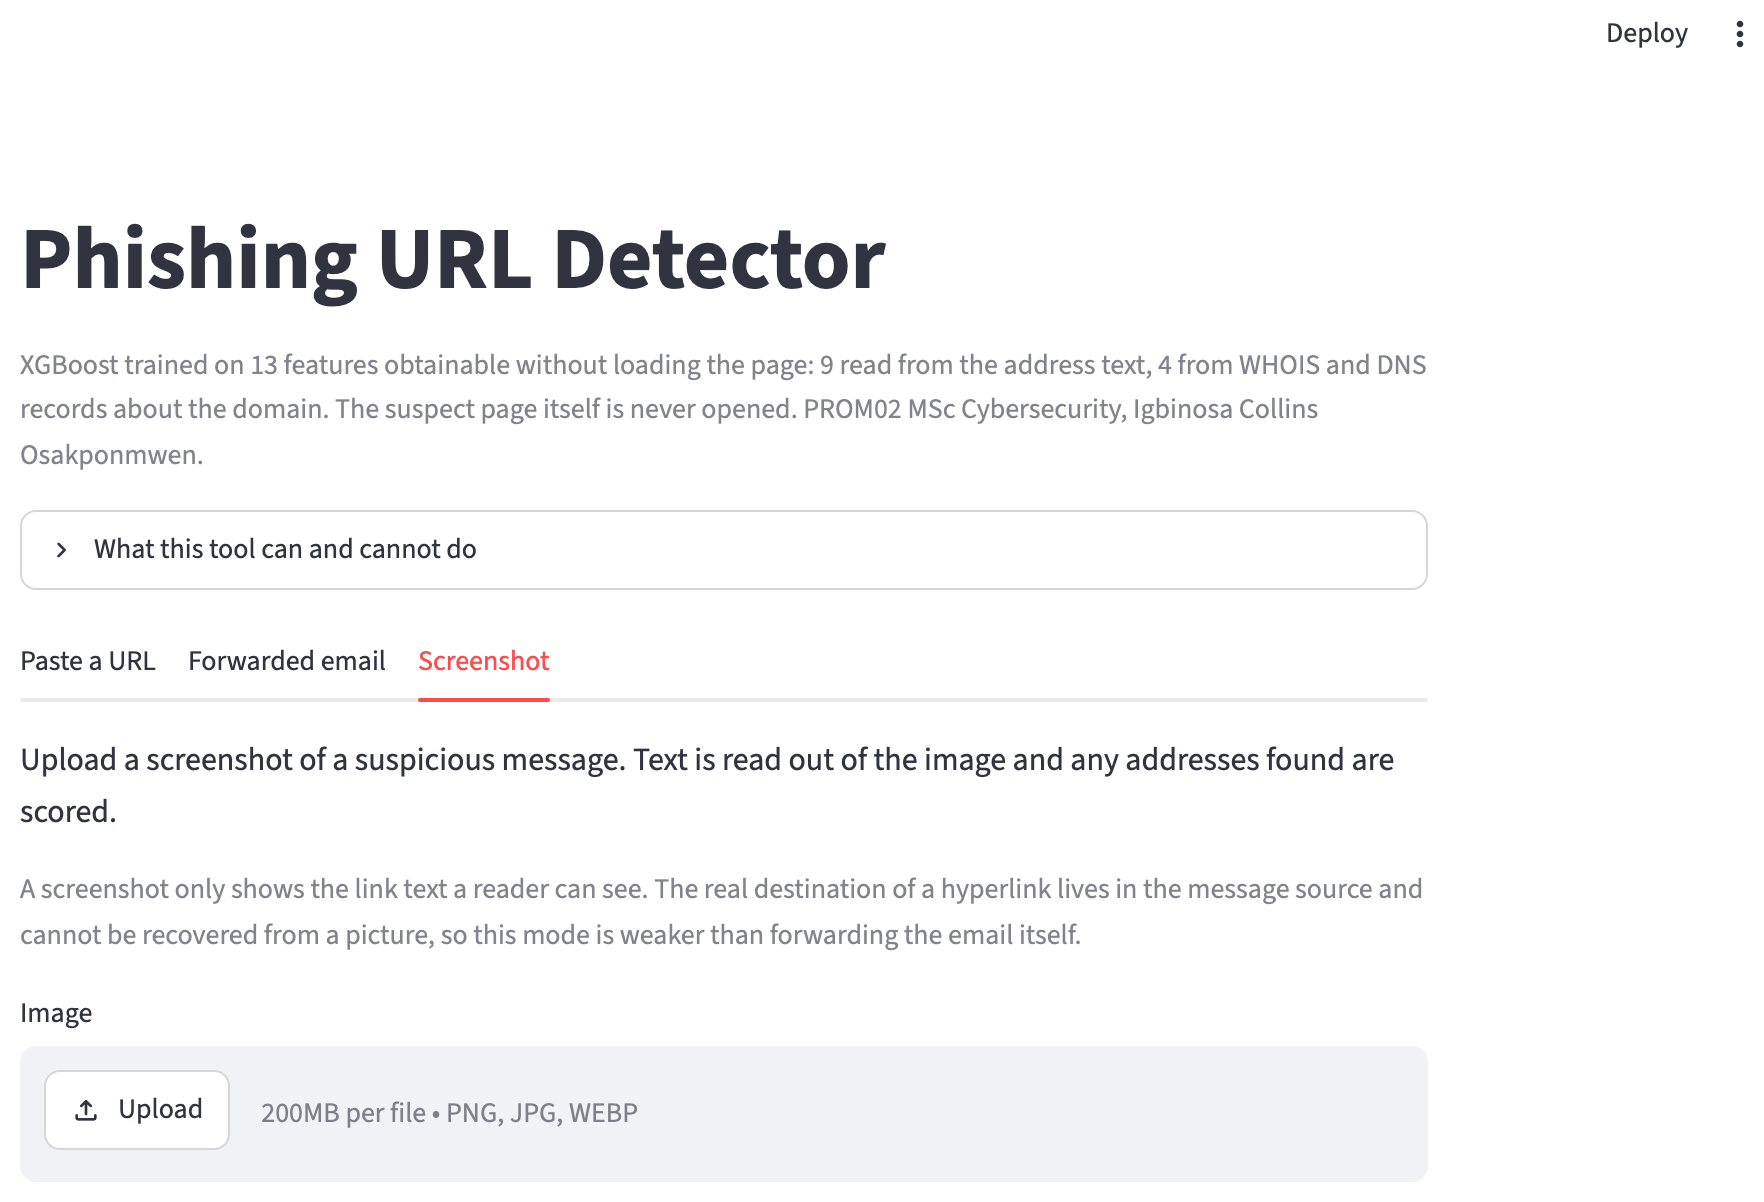
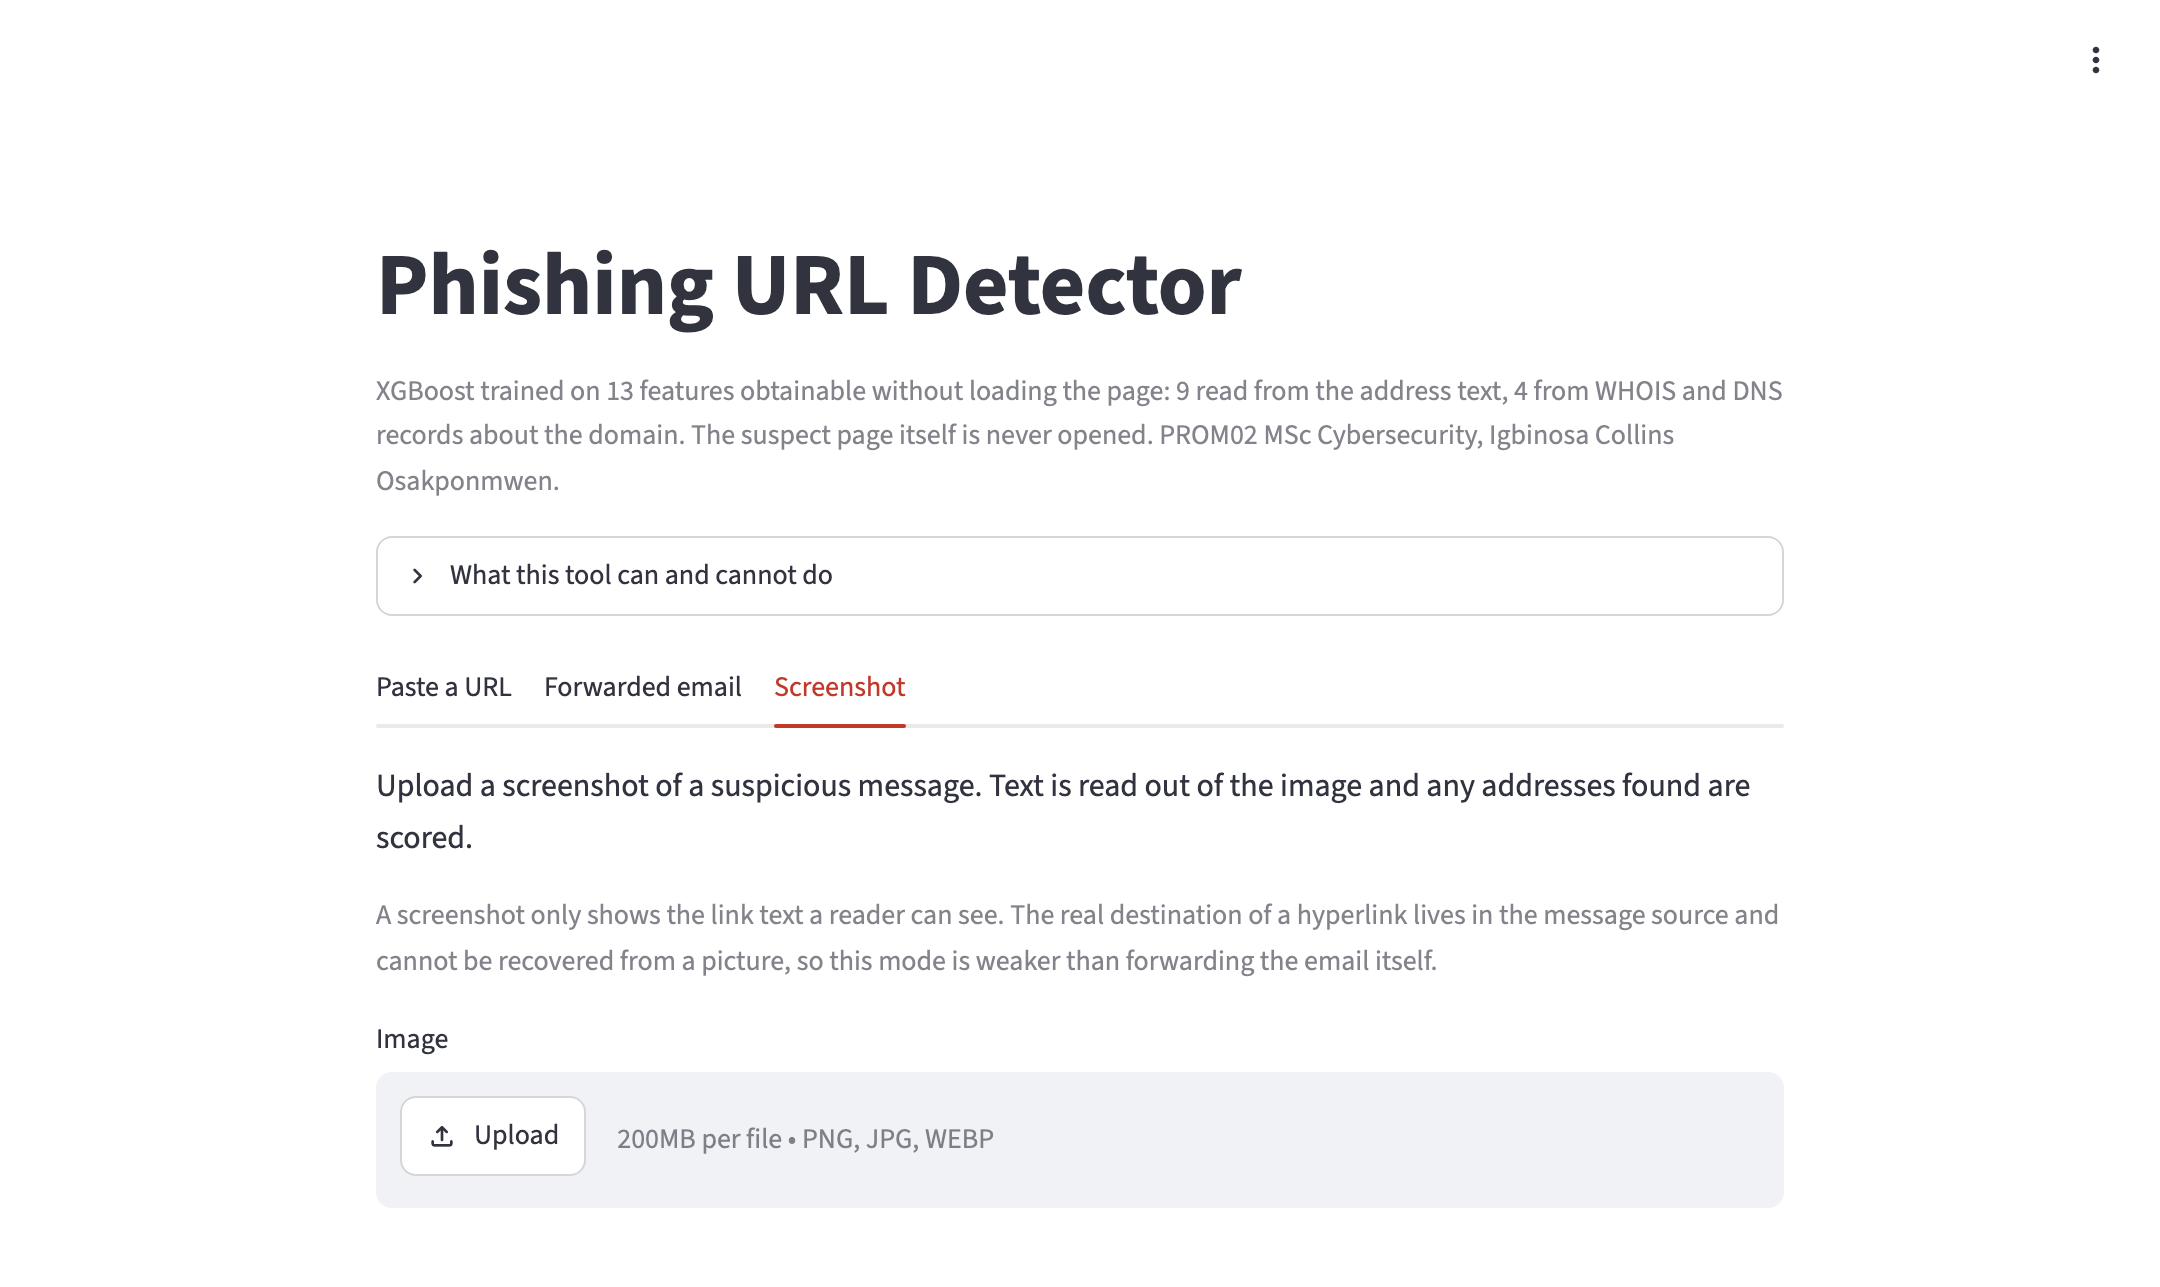
Capture artefact screenshots from the deployed app
Streamlit Community Cloud serves the host page and embeds the app in an
iframe, so the outer document holds no application markup. The capture
script now resolves the iframe source before screenshotting, and waits
for the run to finish so the SHAP table is present rather than pending.

diff --git a/capture_screenshots.py b/capture_screenshots.py
@@ -1,0 +1,98 @@
+"""Capture artefact screenshots for the dissertation.
+
+Defaults to the deployed application. Pass a different address as the first
+argument, or set PHISH_APP_URL, to capture a local instance instead.
+
+Streamlit Community Cloud serves the host page and then embeds the app itself
+in an iframe, so the outer document contains no application markup at all. The
+iframe source is resolved first and the capture is taken from that address.
+"""
+from playwright.sync_api import sync_playwright
+from pathlib import Path
+from urllib.parse import urljoin
+import os
+import sys
+import time
+
+OUT = Path("screenshots"); OUT.mkdir(exist_ok=True)
+LIVE = "https://phishing-detection-msc-atyt6hkvckqthybexapfab.streamlit.app"
+URL = (sys.argv[1] if len(sys.argv) > 1 else os.environ.get("PHISH_APP_URL", LIVE)).rstrip("/")
+PHISH = "http://192.168.4.11@secure-paypa1-login.tk/verify?acct=1"
+EMAIL = """From: security@paypa1-alerts.tk
+Subject: FW: Your account will be suspended
+
+Dear customer, your account is on hold. Confirm here:
+http://192.168.4.11@secure-paypa1-login.tk/verify?acct=1
+Or use our short link https://bit.ly/3xTfake
+Genuine site for reference: https://www.paypal.com/uk/signin
+"""
+
+# The hosted app cold-starts and does its WHOIS and DNS lookups over the
+# network, so every wait here is longer than it needs to be locally.
+T = 180_000
+
+
+def idle(pg, secs=2):
+    """Wait until Streamlit has stopped running the script."""
+    try:
+        pg.wait_for_selector('[data-testid="stStatusWidget"]', state="detached",
+                             timeout=T)
+    except Exception:
+        pass
+    time.sleep(secs)
+
+
+def app_url(pg, url):
+    """Return the address that actually serves the Streamlit application."""
+    pg.goto(url, timeout=120_000)
+    try:
+        pg.wait_for_selector('iframe[title="streamlitApp"]', timeout=60_000)
+        src = pg.get_attribute('iframe[title="streamlitApp"]', "src")
+    except Exception:
+        return url
+    if not src:
+        return url
+    if src.startswith("//"):
+        src = "https:" + src
+    return urljoin(url + "/", src)
+
+
+print(f"capturing from {URL}")
+with sync_playwright() as pw:
+    b = pw.chromium.launch()
+    pg = b.new_page(viewport={"width": 1080, "height": 1500}, device_scale_factor=2)
+
+    inner = app_url(pg, URL)
+    if inner != URL:
+        print(f"application served at {inner}")
+        pg.goto(inner, timeout=120_000)
+    pg.wait_for_selector("text=Phishing URL Detector", timeout=T)
+    idle(pg, 3)
+
+    # --- 1. URL tab with a phishing verdict ---------------------------------
+    pg.get_by_placeholder("https://example.com/login").fill(PHISH)
+    pg.get_by_role("button", name="Check").click()
+    pg.wait_for_selector("text=Phishing", timeout=T)
+    pg.wait_for_selector("text=How each feature moved", timeout=T)
+    pg.wait_for_selector("text=SHAP values are in log-odds", timeout=T)
+    pg.wait_for_selector('[data-testid="stDataFrame"]', timeout=T)
+    idle(pg, 3)
+    pg.screenshot(path=str(OUT / "app_url_phishing.png"), full_page=True)
+    print("1/3 url tab")
+
+    # --- 2. Forwarded email tab ---------------------------------------------
+    pg.get_by_role("tab", name="Forwarded email").click(); time.sleep(2)
+    pg.get_by_placeholder("Paste the full message including headers if you have them").fill(EMAIL)
+    pg.get_by_role("button", name="Scan email").click()
+    pg.wait_for_selector("text=link(s)", timeout=T)
+    pg.wait_for_selector('[data-testid="stDataFrame"]', timeout=T)
+    idle(pg, 3)
+    pg.screenshot(path=str(OUT / "app_email_scan.png"), full_page=True)
+    print("2/3 email tab")
+
+    # --- 3. Screenshot tab ---------------------------------------------------
+    pg.get_by_role("tab", name="Screenshot").click(); idle(pg, 3)
+    pg.screenshot(path=str(OUT / "app_screenshot_tab.png"), full_page=True)
+    print("3/3 screenshot tab")
+    b.close()
+print("done")
